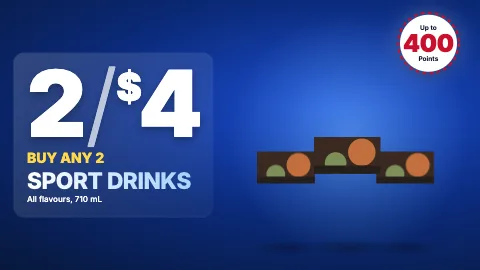
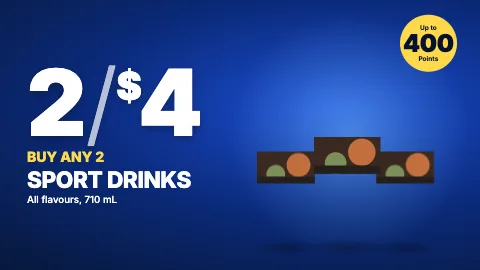
feat(cstore-promo): no glass panel, gradient text, ring or bob; the accent is the one accent
The board's c-store promo (#news-design): the copy sits on the stage with no panel; the product name is solid text, not
a gradient; the badge's dashed ring and the bottles' bob wrappers go, and its disc is the kit's accent with no
shadow, its on-accent ink checked by readableOn. The promo line is measured on the stage's glow where the copy sits
(its middle stop in landscape, its centre in portrait). The detail line is 3.6vmin and the legal line 2.6vmin. Low 6 of
#510: the keyframes that were the same under other names are one each (rise-in, fade-out, shrink-out). Cstore promo 1.4.0.

Pi measurement waived by the owner (2026-11-26).

diff --git a/templates/cstore-promo/style.css b/templates/cstore-promo/style.css
@@ -164,8 +164,8 @@ body {
   --glow: color-mix(in srgb, var(--sf-primary, #78beff) 50%, var(--sf-text, #78beff));
 }
 
-/* The panel is the copy block's own box: even padding on every side, and a margin that keeps
-   it at least 5vmin from each screen edge in both orientations. */
+/* The copy on the stage itself, no panel: the price is the poster. Even padding on every side, and a margin that
+   keeps it at least 5vmin from each screen edge in both orientations. */
 .copy {
   margin-left: calc(var(--u) * 5);
   padding: calc(var(--u) * 5);
@@ -174,24 +174,6 @@ body {
   max-width: calc(100% - var(--u) * 5);
   position: relative;
   z-index: 2;
-}
-.copy::before {
-  content: '';
-  position: absolute;
-  inset: 0;
-  border-radius: min(var(--sf-radius, 4vmin), 4vmin);
-  z-index: -1;
-  /* The kit's surface, nearly opaque; with no kit, a faint white sheen. */
-  background: linear-gradient(
-    135deg,
-    color-mix(in srgb, var(--sf-surface, rgba(255, 255, 255, 0.18)) 88%, transparent),
-    color-mix(in srgb, var(--sf-surface, rgba(255, 255, 255, 0.045)) 88%, transparent)
-  );
-  border: 0.15vmin solid color-mix(in srgb, var(--text) 18%, transparent);
-  animation:
-    fade-in 0.6s var(--d-in) both,
-    fade-out 0.3s var(--d-out) forwards;
-  animation-delay: 0s, var(--out);
 }
 .price {
   font-family: var(--sf-font-display, 'Inter'), sans-serif;
@@ -204,7 +186,7 @@ body {
   transform-origin: 0 60%;
   text-shadow: 0 1vmin 3vmin color-mix(in srgb, var(--bg) 45%, transparent);
   animation:
-    pop-in 0.65s var(--d-in) both,
+    rise-in 0.65s var(--d-in) both,
     shrink-out 0.3s var(--d-out) forwards;
   animation-delay: 0.1s, var(--out);
   will-change: transform, opacity;
@@ -224,8 +206,8 @@ body {
   white-space: nowrap;
   will-change: transform, opacity;
   animation:
-    slide-in 0.65s var(--d-in) both,
-    slide-out 0.3s var(--d-out) forwards;
+    rise-in 0.65s var(--d-in) both,
+    fade-out 0.3s var(--d-out) forwards;
 }
 .l1 {
   font-size: calc(var(--u) * 5.2);
@@ -238,13 +220,9 @@ body {
   font-size: calc(var(--u) * 8.4);
   letter-spacing: -0.02em;
   animation-delay: 0.5s, var(--out);
-  background: linear-gradient(90deg, var(--text), color-mix(in srgb, var(--sf-text, #9fd0ff) 60%, var(--sf-primary, #9fd0ff)));
-  -webkit-background-clip: text;
-  background-clip: text;
-  color: transparent;
 }
 .l3 {
-  font-size: calc(var(--u) * 3);
+  font-size: calc(var(--u) * 3.6);
   font-weight: 500;
   text-transform: none;
   animation-delay: 0.65s, var(--out);
@@ -263,11 +241,7 @@ body {
   will-change: transform, opacity;
   animation:
     rise-in 0.65s var(--d-in) both,
-    sink-out 0.3s var(--d-out) forwards;
-}
-.bob {
-  width: 100%;
-  height: 100%;
+    shrink-out 0.3s var(--d-out) forwards;
 }
 .product img {
   width: 100%;
@@ -318,27 +292,17 @@ body {
     shrink-out 0.3s var(--d-out) forwards;
   animation-delay: 1s, var(--out);
 }
-/* The badge is the kit's primary colour with its on-primary text, a pair the kit keeps legible.
-   Each has its own fallback: with no kit, a white disc with red figures. */
+/* The badge is the kit's accent, the one accent, with its on-accent text (main.ts keeps the pair legible). With no
+   kit, a yellow disc with the stage's navy figures. */
 .badge .disc {
   position: absolute;
   inset: 6%;
   border-radius: 50%;
-  background: var(--sf-primary, #fff);
-  box-shadow:
-    0 1.5vmin 5vmin color-mix(in srgb, var(--bg) 50%, transparent),
-    0 0 8vmin color-mix(in srgb, var(--text) 35%, transparent);
-}
-.badge .ring circle {
-  stroke: var(--sf-accent, #c8102e);
-}
-.badge .ring {
-  position: absolute;
-  inset: 0;
+  background: var(--sf-accent, #ffd84a);
 }
 .badge .txt {
   position: relative;
-  color: var(--sf-on-primary, #c8102e);
+  color: var(--sf-on-accent, #06122b);
   font-weight: 900;
   line-height: 1;
 }
@@ -346,7 +310,6 @@ body {
   display: block;
   font-size: calc(var(--u) * 2.4);
   font-weight: 700;
-  color: var(--sf-on-primary, #06122b);
 }
 .badge b {
   display: block;
@@ -359,7 +322,7 @@ body {
   left: calc(var(--u) * 8);
   right: calc(var(--u) * 8);
   bottom: calc(var(--u) * 3.5);
-  font-size: calc(var(--u) * 2.4);
+  font-size: calc(var(--u) * 2.6);
   z-index: 3;
   opacity: 0.75;
   animation:
@@ -397,18 +360,6 @@ body {
   height: 74%;
 }
 
-@keyframes pop-in {
-  from {
-    opacity: 0;
-    transform: translateY(1.5vmin);
-  }
-}
-@keyframes slide-in {
-  from {
-    opacity: 0;
-    transform: translateY(1.5vmin);
-  }
-}
 @keyframes rise-in {
   from {
     opacity: 0;
@@ -427,17 +378,6 @@ body {
   }
 }
 @keyframes shrink-out {
-  to {
-    opacity: 0;
-  }
-}
-@keyframes slide-out {
-  to {
-    opacity: 0;
-    transform: translateY(-0.6vmin);
-  }
-}
-@keyframes sink-out {
   to {
     opacity: 0;
   }

diff --git a/templates/cstore-promo/main.ts b/templates/cstore-promo/main.ts
@@ -4,23 +4,23 @@ import { painted, readableOn } from '@signforge/template-sdk/contrast';
 // Text and images are bound by the SDK from the data-sf attributes in index.html.
 defineTemplate({
   prepare(ctx) {
-    // A kit may set an on-primary by hand that does not read on its primary (the brand tools only
-    // warn); the badge's text then takes black or white. With no kit the CSS fallbacks are a pair.
+    // A kit may set an on-accent by hand that does not read on its accent (the brand tools only warn); the badge's
+    // text then takes black or white. With no kit the CSS fallbacks are a pair.
     const kit = ctx.root.style;
-    const primary = kit.getPropertyValue('--sf-primary');
-    if (primary) {
-      kit.setProperty('--sf-on-primary', readableOn(primary, kit.getPropertyValue('--sf-on-primary')));
-      // The promo line is the kit's accent on the copy panel: amber, for one, does not read on a
-      // light kit. The panel is the surface at 88% over the stage, which runs from the primary
-      // mixed 70% into the background out to the background: measured over both ends.
-      // It is large text at 1080p (5.2vmin, bold), where 3:1 reads.
+    const accent = kit.getPropertyValue('--sf-accent');
+    if (accent) {
+      kit.setProperty('--sf-on-accent', readableOn(accent, kit.getPropertyValue('--sf-on-accent')));
+      // The promo line is the accent on the stage: amber, for one, does not read on a light kit. The stage's glow is
+      // centred right of the copy: in landscape the copy reaches its middle stop (the primary mixed 35% into the
+      // background), in portrait, stacked above the products, its centre (70%); measured from there out to the
+      // background. It is large text at 1080p (5.2vmin, bold), where 3:1 reads.
       const large = { large: true };
       const bg = kit.getPropertyValue('--sf-bg');
-      const surface = kit.getPropertyValue('--sf-surface');
-      const accent = readableOn(painted(bg, [surface, 0.88]), kit.getPropertyValue('--sf-accent'), large);
-      kit.setProperty('--accent-text', readableOn(painted(bg, [primary, 0.7], [surface, 0.88]), accent, large));
+      const primary = kit.getPropertyValue('--sf-primary');
+      const glow = ctx.root.dataset.orientation === 'portrait' ? 0.7 : 0.35;
+      kit.setProperty('--accent-text', readableOn(painted(bg, [primary, glow]), readableOn(bg, accent, large), large));
     }
-    // A line that is wider than the panel allows (a long name, or a wide brand font) is set
+    // A line that is wider than the copy allows (a long name, or a wide brand font) is set
     // smaller to fit rather than cut off. One layout per line.
     for (const el of document.querySelectorAll<HTMLElement>('.line')) {
       if (el.scrollWidth > el.clientWidth + 1) el.style.fontSize = `${(parseFloat(getComputedStyle(el).fontSize) * el.clientWidth) / el.scrollWidth}px`;

diff --git a/templates/cstore-promo/test/browser.test.ts b/templates/cstore-promo/test/browser.test.ts
@@ -1,5 +1,5 @@
 import { expect, it } from 'vitest';
-import { brandColourTests, largestImageBox, motionContract, screenFrame, useTemplate } from '@signforge/template-test';
+import { brandColourTests, DEMO_KIT, largestImageBox, motionContract, screenFrame, useTemplate } from '@signforge/template-test';
 
 const t = useTemplate(new URL('..', import.meta.url), {
   a: { promo: 'Buy any 3', product: 'Energy', price: '6' },
@@ -43,3 +43,22 @@ it('draws each product within the portraitBox it declares, over the whole spot',
   }
   expect(found).toEqual([]);
 }, 120_000);
+
+// The board's c-store promo (#news-design): no glass panel, no gradient text, no spinning ring, still bottles once they
+// have arrived, and the points disc in the kit's accent, the one accent.
+for (const orientation of ['landscape', 'portrait'] as const)
+  it(`has no panel, gradient text or ring, and still bottles; the disc is the accent, ${orientation}`, async () => {
+    const k = await screenFrame(t(), orientation, { imageLeft: '#f00', imageCenter: '#0f0', imageRight: '#00f' });
+    const seen = await (await k.play({}, { colors: { ...DEMO_KIT, accent: '#ffd84a' }, shape: 'soft', fonts: {} })).evaluate(() => {
+      for (const a of document.getAnimations()) a.currentTime = 3000;
+      const style = (sel: string, pseudo?: string) => getComputedStyle(document.querySelector(sel)!, pseudo);
+      return {
+        panel: style('.copy', '::before').content,
+        product: style('.l2').webkitTextFillColor === style('.l2').color && style('.l2').backgroundImage === 'none',
+        ring: document.querySelectorAll('.badge svg').length,
+        disc: [style('.badge .disc').backgroundColor, style('.badge .disc').boxShadow],
+        moving: document.getAnimations().filter((a) => a.playState === 'running' && a.effect!.getComputedTiming().progress !== null).length,
+      };
+    });
+    expect(seen).toEqual({ panel: 'none', product: true, ring: 0, disc: ['rgb(255, 216, 74)', 'none'], moving: 0 });
+  });

diff --git a/templates/cstore-promo/index.html b/templates/cstore-promo/index.html
@@ -15,13 +15,12 @@
     <p class="line l3" data-sf="detail">All flavours, 710 mL</p>
   </div>
   <div class="products">
-    <div class="product p1"><div class="bob"><img data-sf-src="imageLeft" alt=""></div></div>
-    <div class="product p2"><div class="bob"><img data-sf-src="imageCenter" alt=""></div></div>
-    <div class="product p3"><div class="bob"><img data-sf-src="imageRight" alt=""></div></div>
+    <div class="product p1"><img data-sf-src="imageLeft" alt=""></div>
+    <div class="product p2"><img data-sf-src="imageCenter" alt=""></div>
+    <div class="product p3"><img data-sf-src="imageRight" alt=""></div>
   </div>
   <div class="badge">
     <div class="disc"></div>
-    <svg class="ring" viewBox="0 0 100 100"><circle cx="50" cy="50" r="47" fill="none" stroke="#c8102e" stroke-width="3" stroke-dasharray="6 5"/></svg>
     <div class="txt"><small>Up to</small><b data-sf="points">400</b><small>Points</small></div>
   </div>
   <p class="legal" data-sf="disclaimer"></p>

diff --git a/docs/template-spec.md b/docs/template-spec.md
@@ -78,7 +78,7 @@ Each template's browser tests check it (`templates/<id>/test/browser.test.ts`, i
 - `defineTemplate({ prepare, play })` hooks for anything markup cannot do, such as building rows from a list or drawing to a canvas. `prepare` may be async; ready is reported after it resolves. A `stop` hook exists in the SDK but the player does not call it today: a template is simply removed.
 - `formatter(ctx, options)` and `dayKey(ctx, date)` format dates and times in the screen's time zone and locale. Use them for anything shown: the device's own clock settings may not match the screen's location.
 - `fitWords(text, fits)` shortens text to the whole words that fit, ending in "…": CSS `text-overflow` cuts after a space and shows "rain …". `fits` sets the candidate and checks for overflow (`packages/template-sdk/src/fit.test.ts`); it costs about log2(words) layouts, and only for text that overflows.
-- `readableOn(fill, text)` from `@signforge/template-sdk/contrast` is `text` when it reads on `fill` (4.5:1), else black or white, whichever reads better; `readableOn(fill, text, { large: true })` asks 3:1, for large text (below). Use it for text on a fill the template does not choose: a colour field or a kit's colour, whose on-colour a kit may set by hand to a pair that fails (cstore-promo's badge, photo-promo's price tag). Use it the other way round for accent-coloured text, `readableOn(background, accent)`, measured against what the text really sits on: clock's greeting on `--bg` under its accent glow, menu-board's prices on their card, cstore-promo's promo line on the copy panel over the stage. Colours are `#rgb` or `#rrggbb`; a `color-mix` comes back from `getComputedStyle` as `color(srgb …)`, and a translucent card shows what is under it, so resolve the backdrop first with `painted(...layers)` from the same entry point, bottom first, a layer a colour or `[colour, opacity]` (menu-board: `painted(bg, getComputedStyle(card).backgroundColor)`). It reads a 1×1 canvas, so call it once per backdrop, not per row (agenda keeps one per kind of card). Text over a gradient is measured over both ends (agenda's stage, cstore-promo's). It is a separate entry point so that templates which do not use it keep their bundles byte for byte.
+- `readableOn(fill, text)` from `@signforge/template-sdk/contrast` is `text` when it reads on `fill` (4.5:1), else black or white, whichever reads better; `readableOn(fill, text, { large: true })` asks 3:1, for large text (below). Use it for text on a fill the template does not choose: a colour field or a kit's colour, whose on-colour a kit may set by hand to a pair that fails (cstore-promo's badge, on its accent; photo-promo's price tag). Use it the other way round for accent-coloured text, `readableOn(background, accent)`, measured against what the text really sits on: clock's greeting on `--bg` under its accent glow, menu-board's prices on their card, cstore-promo's promo line on the stage's glow. Colours are `#rgb` or `#rrggbb`; a `color-mix` comes back from `getComputedStyle` as `color(srgb …)`, and a translucent card shows what is under it, so resolve the backdrop first with `painted(...layers)` from the same entry point, bottom first, a layer a colour or `[colour, opacity]` (menu-board: `painted(bg, getComputedStyle(card).backgroundColor)`). It reads a 1×1 canvas, so call it once per backdrop, not per row (agenda keeps one per kind of card). Text over a gradient is measured over both ends (agenda's stage, cstore-promo's). It is a separate entry point so that templates which do not use it keep their bundles byte for byte.
 - `readableOver(pixels, text, { large, lightest })` from `@signforge/template-sdk/backdrop` is the same for a backdrop that is not one colour, text over a photo: given the RGBA pixels behind the text, it is `text` when it reads on every one, else black or white when one of them does, else undefined, and the text needs a fill of its own. With `lightest`, the pixels are an image's sample: each cell's darkest pixel in `pixels` and its lightest at the same place in `lightest`, and the text must read on every colour between the two.
   - **Read the sample, not the photo.** An image uploaded or built since #169 has a sample (`ManifestFile.sample` in the contract): its darkest and lightest pixel in each cell of `IMAGE_SAMPLE_CELL` (16) px, as a PNG of the darkest cells over the lightest. `init` carries it beside the image, as `ctx.assets[sampleAsset(field)]` (both from the same entry point). Drawing the photo into a canvas decodes it again on the main thread, whatever the size of the part read: 70 ms of a Pi's prepare for a 1080p photo. The sample is a few hundred times fewer pixels.
   - **Do not wait for the photo, and do not let it paint, while `prepare` runs.** Before `ready` the SDK awaits `img.decode()`, and the first frame's raster decodes the photo again; the two run one after the other, off the main thread, about 100 ms on a Pi. When a frame paints the loaded photo while `prepare` is still running, the raster's decode is scheduled first and the SDK's waits behind it, so `ready` waits for both: on the Pi that, not the canvas, was most of what #168 cost (`spike/pi-perf/RESULTS.md`, Photo samples). So photo-promo hides its photo (`visibility: hidden`) until `prepare` returns, and takes the photo's size from its sample, to the cell, rather than waiting for the photo to load. Calling `img.decode()` early does not help: each call decodes again.

diff --git a/packages/template-test/README.md b/packages/template-test/README.md
@@ -28,7 +28,7 @@ Every template: the update lifecycle, above, and D's motion in both orientations
 - **announcement** (#197), at 1920x1080: in each look, both orientations, with each toggle off alone, all off, and every text field at its `maxLength` (one 80-letter word too), no block leaves the screen or overlaps another, no text is cut sideways without an ellipsis and no clamped text shows more than its lines; every text reads as painted with no kit, the demo kit and a light kit; each toggle is marked and what is off removed, the headline steps up without the photo and the footer closes up without the QR code (Night's headline takes its column); an element with nothing to show is left out; the defaults play at the look's own type sizes; the QR code is at least 30vmin, black on white in every look and kit, and reads back (jsQR) as a 100-character address; every element has an intro and an outro ending with the spot, only `transform` and `opacity` move, on at most 50 elements; with reduced motion nothing animates.
 - **clock**: the time and date from `init`'s clock, not the device's; the greeting, in the accent, on its backdrop under every brand kit.
 - **countdown** (#198), from fixed clocks: the count before, at and after its target, in days and in hours and minutes; wall-clock days across both DST changes in New York; zeros once the target has passed, in the hour the clocks repeat too; the progress over the last `progressDays`, only moving forward; a prepare superseded by a new init while its faces load leaves the new document alone; counting up with a record (to beat, and beaten) and without one; Night's ring as two half-discs turned by transforms; figures that change only as their unit turns, from one timer that `stop` clears, at the same width whatever their digits; in every look, with the longest copy, each toggle off and all off, in both orientations: no text past the screen, its clamp or its box, painted over or overlapping another; every text reads as painted with no kit, the demo kit and a light kit; each toggle marked and its element removed with the title stepped up; intros and outros timed from `--sf-duration` on `transform` and `opacity` only, within the cap; ambient motion and Night's sweep still in portrait; nothing moving under reduced motion.
-- **cstore-promo**: the badge's text on its disc (4.5:1, 3:1 for the large points figure) and the promo line, in the accent, on its backdrop, under every brand kit.
+- **cstore-promo**: the badge's text on its disc, in the accent (4.5:1, 3:1 for the large points figure), and the promo line, in the accent, on its backdrop, under every brand kit; no panel, gradient text or ring, and nothing moving once the bottles have arrived.
 - **info-frame** (#201), at 1920x1080: in each look and orientation, in every rail, crawl and toggle setting at the longest copy, no text runs off the screen, past its clamp, sideways out of a clamped box, out of a box that clips it or off its card, nothing is painted over a text, and no two texts, the logo or a weather glyph overlap; an unbroken word at each text field's `maxLength` wraps or truncates without sideways clipping; with the defaults nothing is shrunk; every text reads on an opaque card across all 288 rail × crawl × toggle settings, and as painted in every look and layout, with no kit, the demo kit and a light kit; a logo-only rail is dropped, without a rail the clock and the weather go onto the photo, and type grows into what is left; each toggle is marked and removes its part; the time, date and next three days from `init`'s clock and zone, in 12 and 24 hours; the minute turns with Playwright's clock, the time written at most once a second; weather words from the code, day and night, and each look's forecast; the crawl's speed; the photo unpainted until play; intros and outros ending with the spot, only `transform` and `opacity`, at most 50 elements, in portrait only the crawl looping; with reduced motion nothing animates.
 - **menu-board**: the tags' text on their fill and the prices, in the accent, on their card, light and dark, under every brand kit.
 - **news** (2.1, design D, #476): in every look and orientation, at the longest copy and in every toggle setting, no text runs off its story or the screen, is painted over or meets the photo; every photo shape is drawn whole, at most 1.25 times its size, beside the text; the headline hangs from one place whatever the photo; headlines step down and are cut on a word to their lines, every line filled; no text box clips a descender; the spot's credit names the source; every text reads as painted with no kit, the demo kit and a light kit, and Poster's age and bar share one accent; the strip numbers the stories and the bar moves under each as it comes on; each part's intro and outro on design D's timeline, nothing overshooting; the time and each story's age from `init`'s clock; only the first photo decoded before ready; with reduced motion nothing animates.
